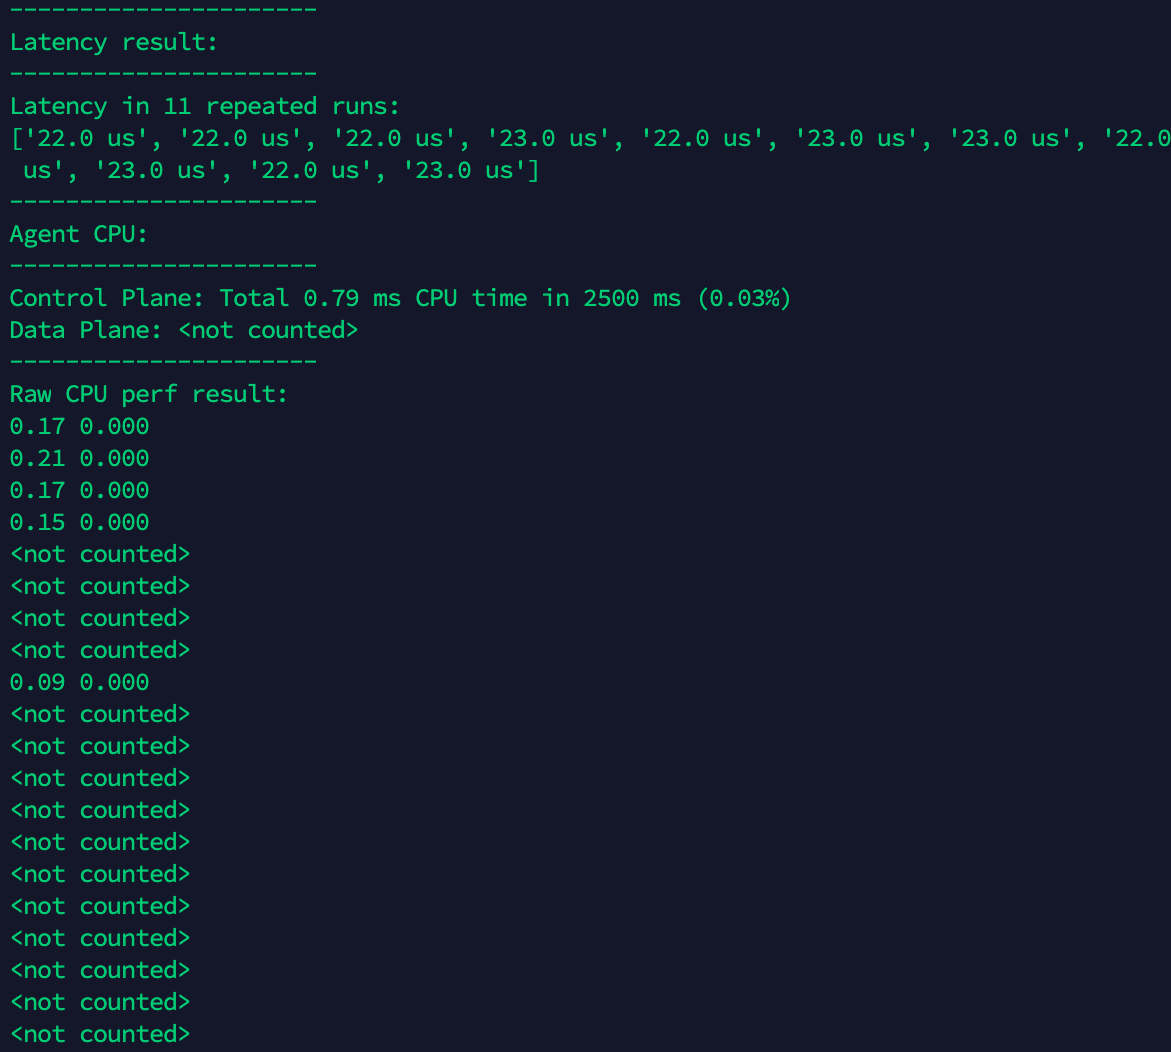
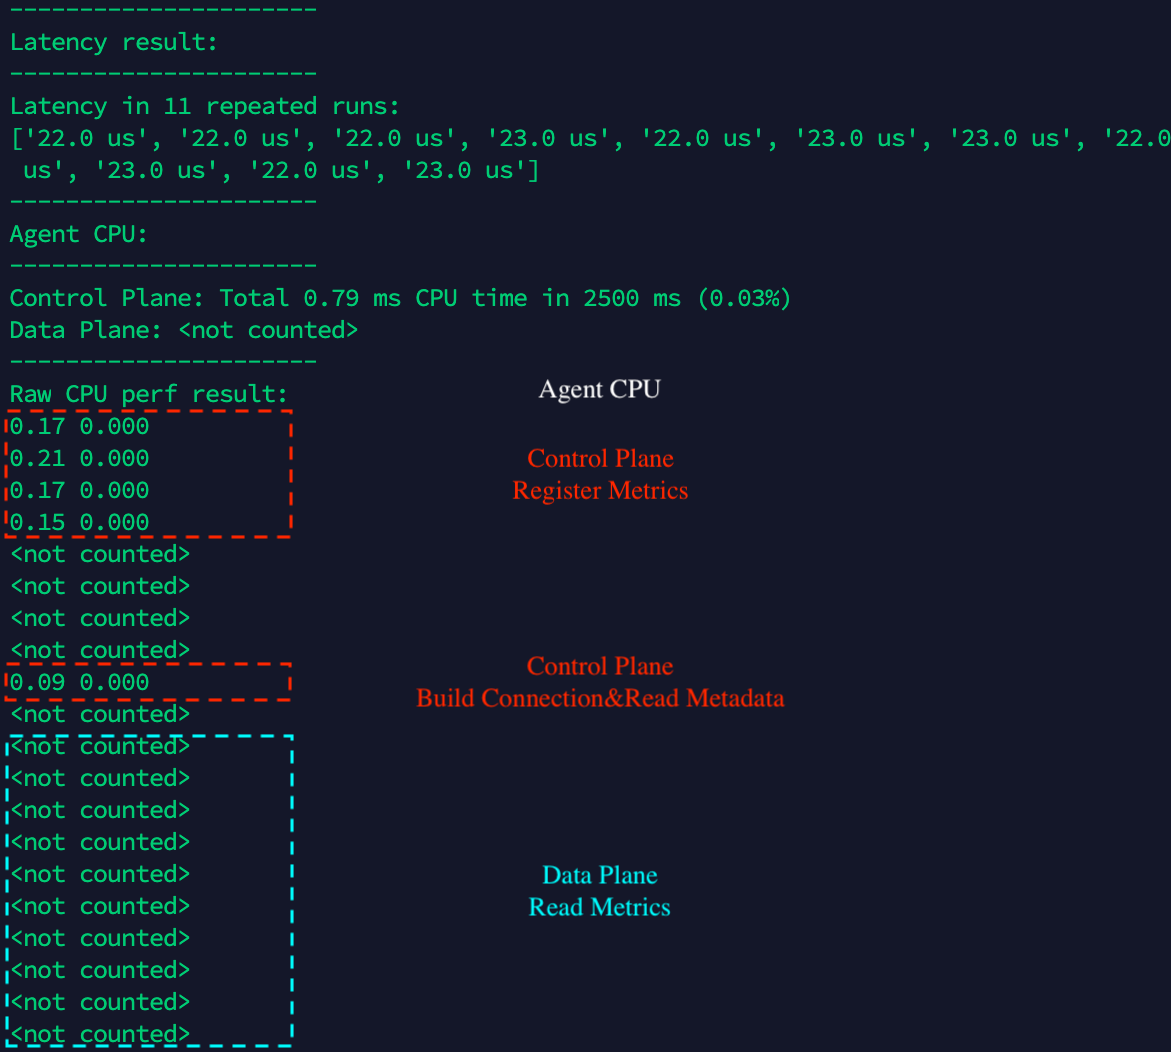
add annotation for figures, refine script

diff --git a/README.md b/README.md
@@ -93,13 +93,14 @@ Evaluation of Zero in distributed monitoring.
 
 
 ### Hello World
-#### Preparation
+You can skip the preparation and start from "Run tests" with the provided environment.  
+#### Preparation  
 Prepare Zero at two machines with IP1 and IP, as the monitoring agent and controller respectively.
 #### Run tests
-You can skip the preparation and start from this step with our test environment.
 All you need to do is log in to the master node.
 
 * Log in to the master node:
+We recommend that you log in from a [tmux](https://github.com/tmux/tmux/wiki) window to keep the session to avoid ssh session timeout after a short idle time.
 ```
 ssh review@123.57.223.31  # Log in Jump Server.
 ssh review@compute047     # Log in master node from Jump Server.
@@ -132,12 +133,14 @@ cd ~/zero-ae/zero-overhead/script/single-zero
 ./zero-remote-clean.sh              # Zero agent works in blocking mode and needs to be released manually after each run.
                                     # Zero controller will exit automatically.
 ```
+<img src="/background/single-clean.png" alt="Clean">
 
 #### Output
 The output example is shown in the above figures.
 The raw output file is written to `~/zero-ae/zero-overhead/perf_data/single`.
 
 ### Zero Overhead
+You can skip the preparation and start from "Run tests" with the provided environment. 
 #### Preparation
 Prepare Zero at two machines with IP1 and IP, as the monitoring agent and controller respectively.
 #### Run tests
@@ -177,7 +180,8 @@ The output example is shown in the above figures.
 The raw output file is written to `~/zero-ae/zero-overhead/perf_data/redis`.
 
 ### Zero Scalability
-#### Preparation
+You can skip the preparation and start from "Run tests" with the provided environment. 
+#### Preparation 
 Prepare Zero at n machines with IP1-n as the monitoring agent, where n=8 in our Cluster2.   
 Prepare Zero at one machine with IP as the monitoring controller.
 
